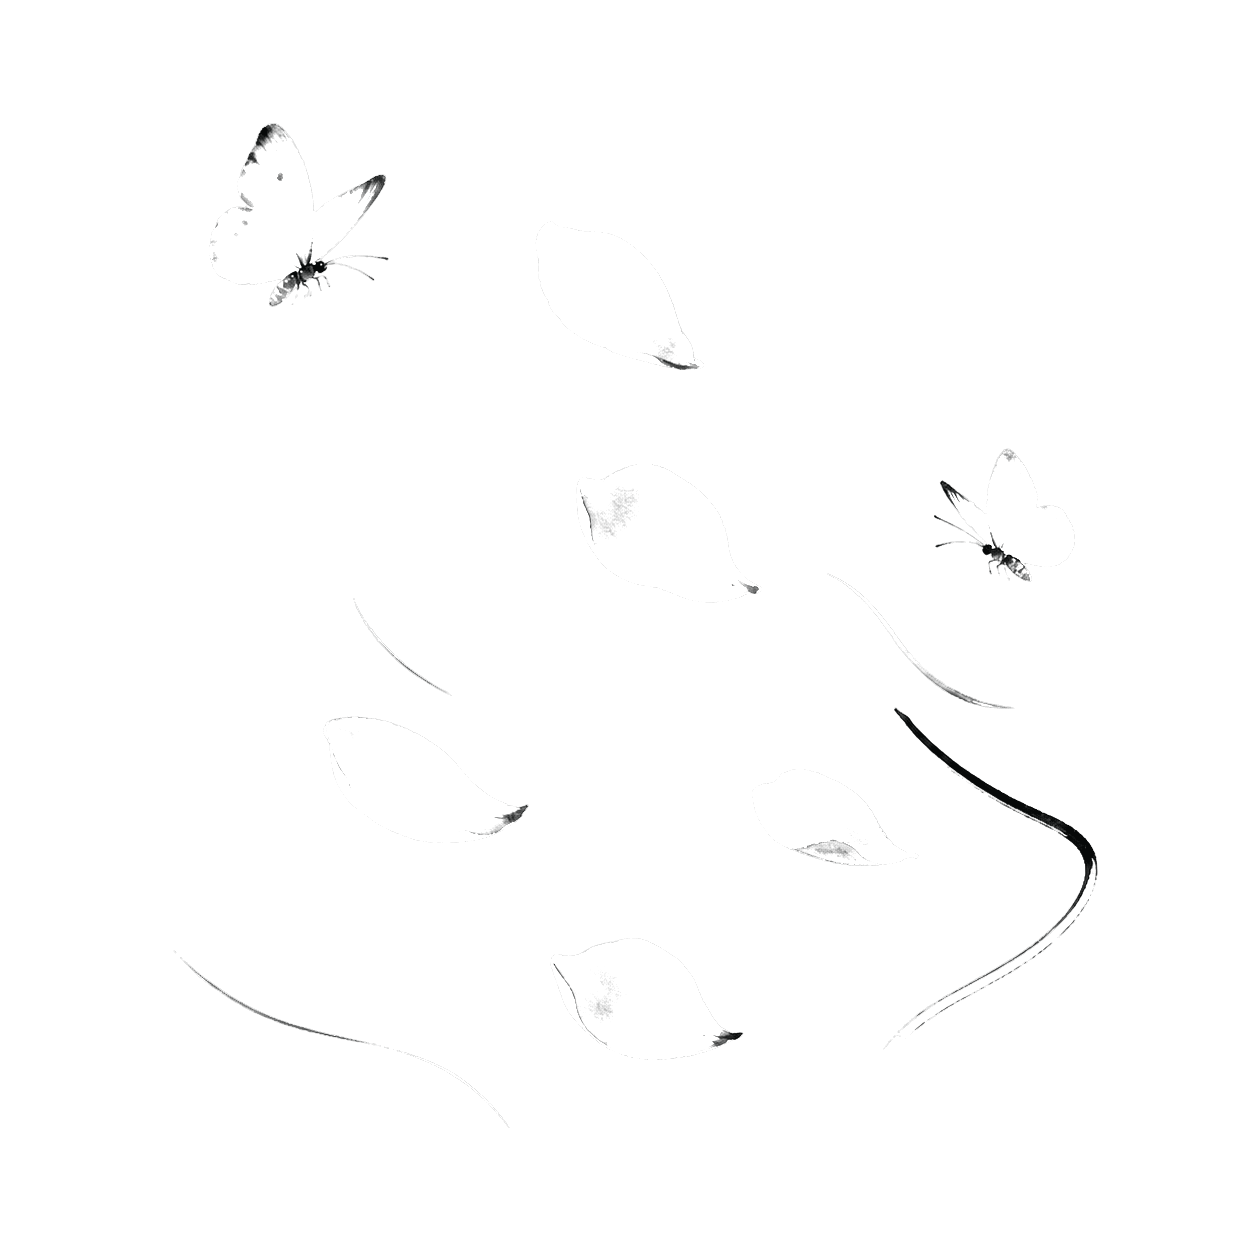
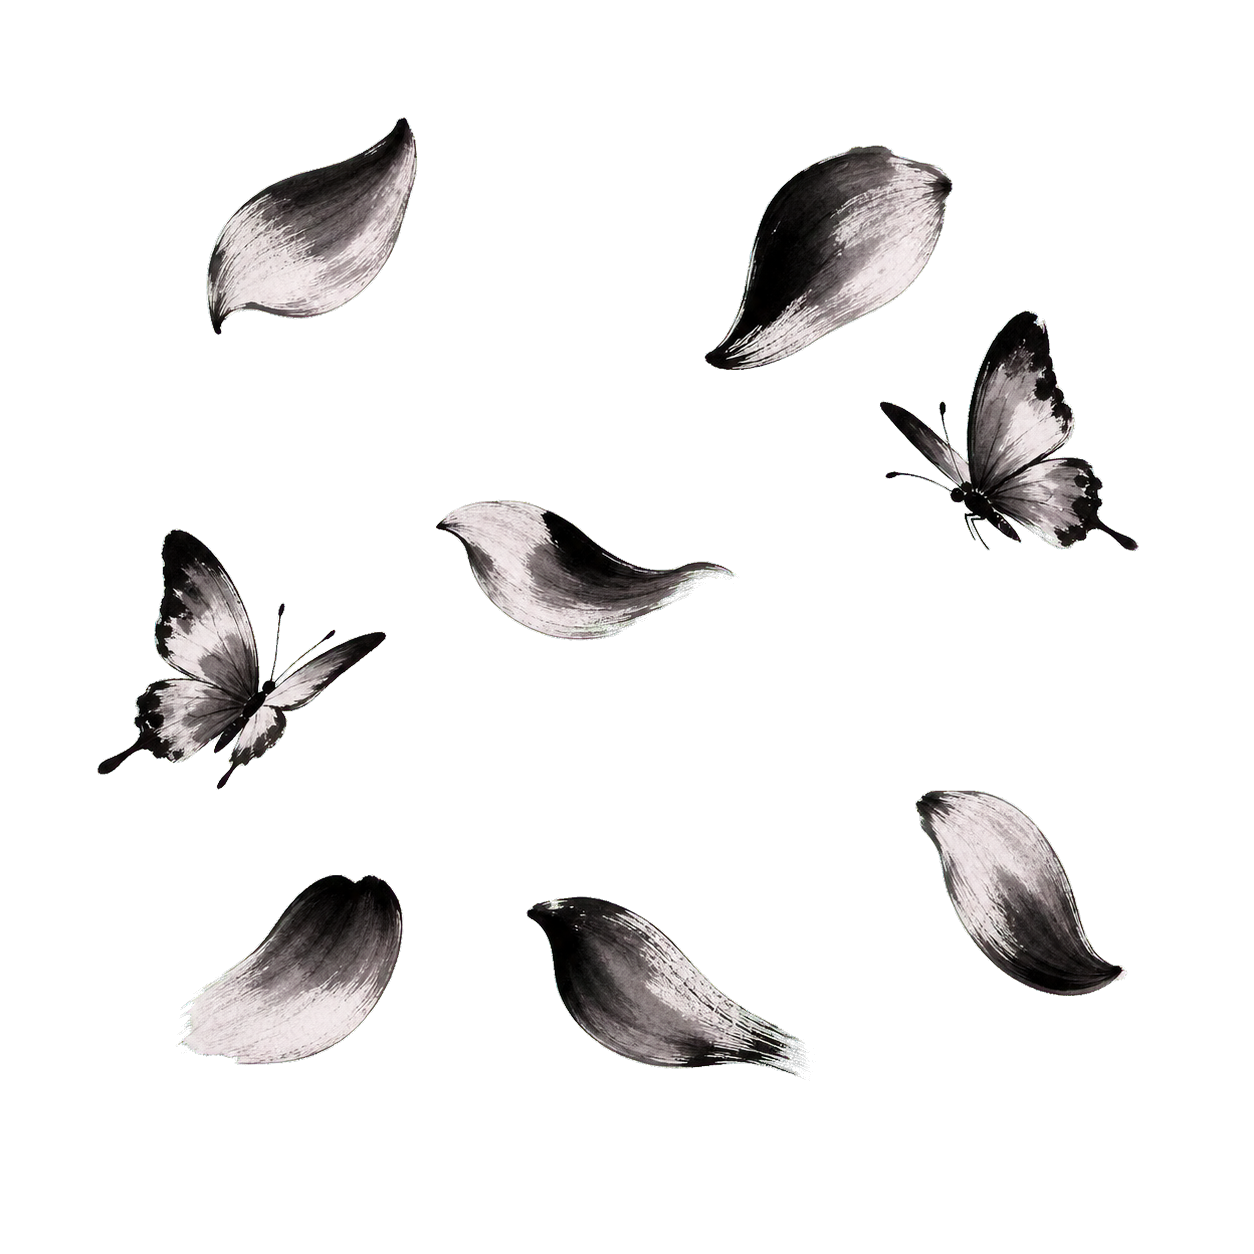
feat: integrate ink garden decorations

diff --git a/app/garden.css b/app/garden.css
@@ -18,6 +18,13 @@
 .tree-scene:after { content:"";position:absolute;z-index:-1;left:4%;right:4%;bottom:10px;height:170px;border-radius:50%;background:radial-gradient(ellipse,#ced9d188 0%,#eef0e866 48%,transparent 72%);filter:blur(8px); }
 .tree-scene>img { width:150%;max-width:none;height:auto;max-height:600px;object-fit:contain;object-position:center bottom;filter:drop-shadow(0 18px 20px #28453b1f);transition:.5s ease; }
 .hsk-tree-scene { isolation:isolate; }.hsk-tree-scene>img.tree-locked { position:absolute;inset:auto 50% 0;z-index:0;width:150%;max-width:none;max-height:600px;transform:translateX(-50%); }
+.garden-ink-decor { position:absolute;inset:0;z-index:-1;pointer-events:none;overflow:hidden; }
+.garden-ink-decor img { position:absolute;display:block;max-width:none;height:auto;user-select:none; }
+.garden-ink-hills { width:148%;left:50%;bottom:-2%;transform:translateX(-50%);opacity:.34;mix-blend-mode:multiply; }
+.garden-ink-bamboo { width:37%;left:-7%;bottom:3%;opacity:.22; }
+.garden-ink-clouds { width:72%;right:-19%;top:3%;opacity:.16; }
+.garden-ink-moss { width:37%;right:-5%;bottom:0;opacity:.46;mix-blend-mode:multiply; }
+.garden-ink-petals { width:29%;right:-5%;top:16%;opacity:.2; }
 .garden-branch { position:absolute;z-index:1;left:var(--left);top:var(--top);width:12%;height:10%;transform:translate(-14%,-50%) rotate(var(--angle));pointer-events:none;transform-origin:left center; }
 .branch-twig { position:absolute;left:0;top:48%;width:100%;height:34%;border-top:3px solid #65705b;border-radius:70% 90% 0 0;opacity:.85;filter:drop-shadow(0 1px 1px #28453b33); }
 .branch-leaves:before,.branch-leaves:after { content:"";position:absolute;width:19px;height:11px;border-radius:90% 0 90% 0;background:linear-gradient(135deg,#adc186,#556f4f);box-shadow:24px -10px 0 #789262,-11px -18px 0 #b4c98e; }
@@ -27,7 +34,7 @@
 .tree-word b { font:600 23px Georgia,serif; }
 .tree-word small { font-size:10px; }
 .word-one { left:29%;top:39%; }.word-two { left:48%;top:48%; }.word-three { right:23%;top:31%; }
-.growth-event { position:absolute;left:4%;bottom:80px;padding:12px 15px;border:1px solid var(--line);border-radius:16px;display:flex;align-items:center;gap:10px;background:#fffdf9e8;box-shadow:var(--shadow); }
+.growth-event { position:absolute;z-index:3;left:4%;bottom:80px;padding:12px 15px;border:1px solid var(--line);border-radius:16px;display:flex;align-items:center;gap:10px;background:#fffdf9e8;box-shadow:var(--shadow); }
 .growth-event>svg { width:38px;height:38px;padding:8px;border-radius:50%;background:var(--green);color:white; }
 .growth-event b,.growth-event small { display:block; }.growth-event small { margin-top:3px;color:var(--muted); }
 .next-garden-lesson { margin-top:74px;padding:22px;border:1px solid var(--line);border-radius:20px;background:#fffdf9;box-shadow:var(--shadow); }
@@ -42,4 +49,4 @@
 .garden-milestones b,.garden-milestones small { display:block; }.garden-milestones small { margin-top:3px;font-size:11px; }
 @media (max-width:1200px) { .garden-layout{grid-template-columns:190px minmax(390px,1fr) 210px}.tree-scene{height:560px}.tree-scene>img,.hsk-tree-scene>img.tree-locked{max-height:540px}.growth-copy>b{font-size:43px}.garden-milestones{grid-template-columns:1fr repeat(3,1fr)} }
 @media (max-width:900px) { .garden-layout{grid-template-columns:1fr 240px}.growth-copy{grid-column:1/-1;padding-top:25px;display:grid;grid-template-columns:auto 1fr;gap:8px 24px;align-items:center}.growth-copy .garden-progress,.growth-copy>span{grid-column:2}.tree-scene{height:520px}.tree-scene>img{max-height:500px}.next-garden-lesson{margin-top:40px}.garden-milestones{grid-template-columns:1fr 1fr}.garden-milestones>div{grid-column:1/-1} }
-@media (max-width:620px) { .garden-title h2{font-size:31px}.garden-layout{display:flex;flex-direction:column}.growth-copy{width:100%;display:block}.growth-copy>b{font-size:40px}.tree-scene{width:100%;height:430px;order:2}.tree-scene>img,.hsk-tree-scene>img.tree-locked{width:155%;max-height:420px}.next-garden-lesson{width:100%;margin-top:0;order:3}.tree-word{width:48px;height:48px}.growth-event{left:0;bottom:35px}.garden-milestones{grid-template-columns:1fr;padding:18px}.garden-milestones>div{grid-column:auto}.garden-milestones article{border-left:0;border-top:1px solid var(--line);padding:12px 0 0}.word-three{right:15%} }
+@media (max-width:620px) { .garden-title h2{font-size:31px}.garden-layout{display:flex;flex-direction:column}.growth-copy{width:100%;display:block}.growth-copy>b{font-size:40px}.tree-scene{width:100%;height:430px;order:2}.tree-scene>img,.hsk-tree-scene>img.tree-locked{width:155%;max-height:420px}.garden-ink-bamboo,.garden-ink-petals{display:none!important}.garden-ink-hills{width:165%;bottom:2%;opacity:.25}.garden-ink-clouds{width:88%;right:-25%;top:7%;opacity:.11}.garden-ink-moss{width:44%;right:-8%;bottom:2%;opacity:.32}.next-garden-lesson{width:100%;margin-top:0;order:3}.tree-word{width:48px;height:48px}.growth-event{left:0;bottom:35px}.garden-milestones{grid-template-columns:1fr;padding:18px}.garden-milestones>div{grid-column:auto}.garden-milestones article{border-left:0;border-top:1px solid var(--line);padding:12px 0 0}.word-three{right:15%} }

diff --git a/app/components/LearningApp.tsx b/app/components/LearningApp.tsx
@@ -469,6 +469,13 @@ function HomeGarden({ totalXp, learnedToday, dailyGoal, streakDays, nextLesson, 
     <div className="garden-layout">
       <aside className="growth-copy"><b>{totalXp.toLocaleString("fr-FR")} <small>XP</small></b><p><strong>{branchCount} rameau{branchCount > 1 ? "x" : ""} réveillé{branchCount > 1 ? "s" : ""}</strong><br />sur les 16 unités de {levelName}</p><div className="garden-progress" aria-label={`${treeProgress}% du ${levelName} terminé`}><i style={{ width: `${treeProgress}%` }} /></div><span><Leaf /> Découverte : rameau · Pratique : feuilles · Défi : fleurs.</span></aside>
       <div className="tree-scene hsk-tree-scene">
+        <div className="garden-ink-decor" aria-hidden="true">
+          <img className="garden-ink-hills" src="/garden/ink-samples/ink-hills.png" alt="" />
+          <img className="garden-ink-bamboo" src="/garden/ink-samples-black/ink-bamboo-black.png" alt="" />
+          <img className="garden-ink-clouds" src="/garden/ink-samples-black/ink-clouds-black.png" alt="" />
+          <img className="garden-ink-moss" src="/garden/ink-samples/ink-moss-grass.png" alt="" />
+          <img className="garden-ink-petals" src="/garden/ink-samples-black/ink-petals-butterflies-black.png" alt="" />
+        </div>
         <img className="tree-locked" src={`/tree/hsk/hsk-${tree.level}-locked.png`} alt={`Arbre ${levelName}, ${tree.completedUnits} unités terminées`} />
         {tree.branches.map((state, index) => {
           const [left, top, angle] = gardenSlots[index];